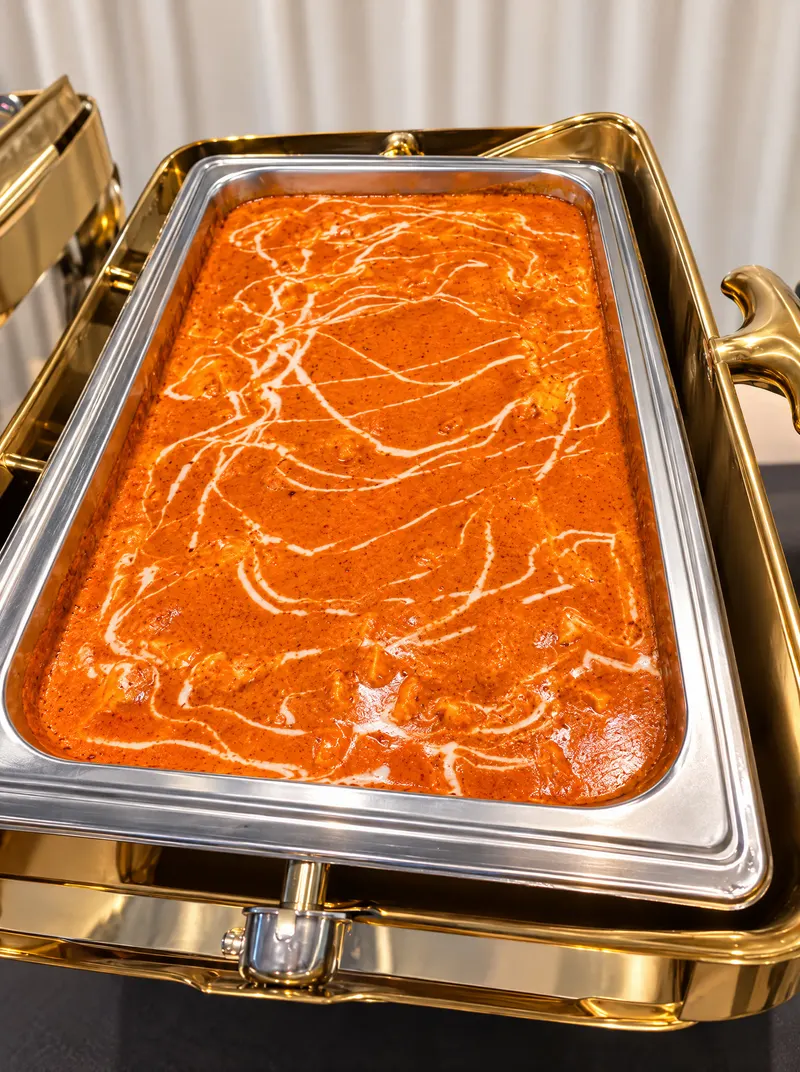
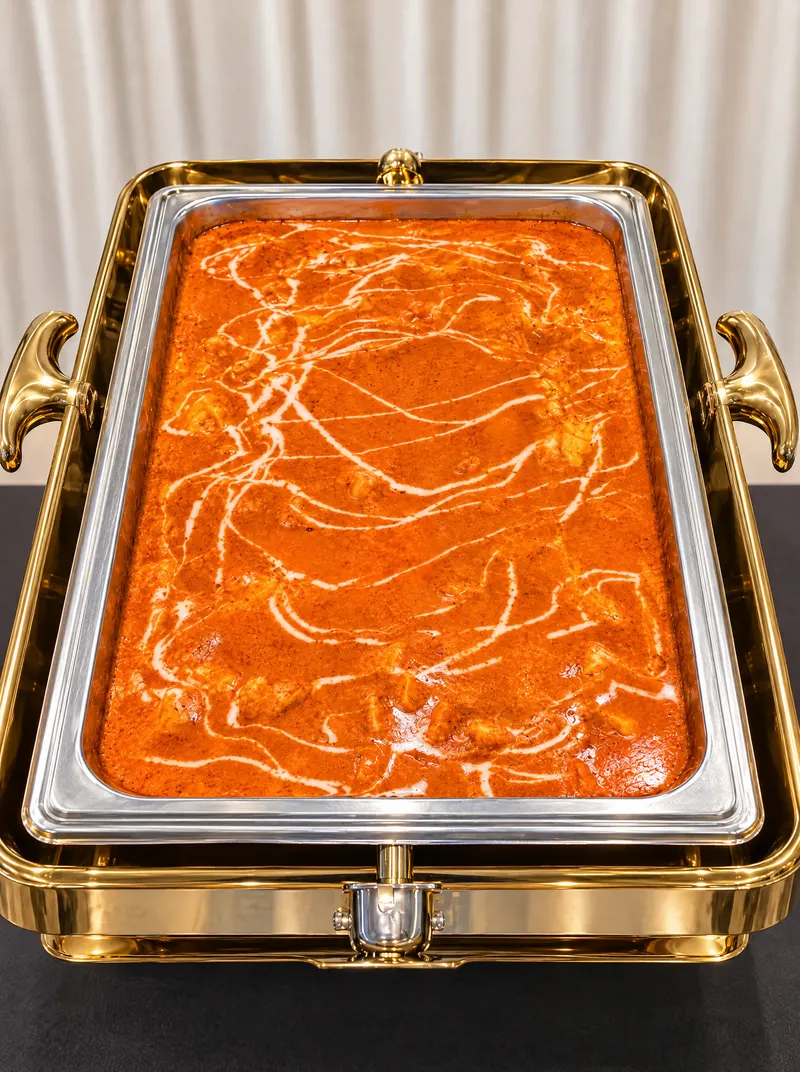
feat: every photo melts into its background, straight butter chicken, phone fixes
- light theme: gallery, buffet and live-station photos get soft edges; home carousel melts on all sides;
  the story hero melts into the marble on phones too
- butter chicken photo straightened (Higgsfield edit, same dish) and re-cropped centred
- phones: buttons at 12.8px min, footer links and icons have 44px tap areas
- scripts/mobile-check.mjs: 360/390/430px on every page (no sideways scroll, images load, text >= 12px,
  tap targets >= 32px, menu button opens and navigates, no page errors)

diff --git a/website/src/index.css b/website/src/index.css
@@ -149,7 +149,7 @@
   .btn-primary {
     display: inline-block;
     font-family: var(--font-body);
-    font-size: 0.74rem;
+    font-size: max(0.74rem, var(--fs-min));
     font-weight: 600;
     letter-spacing: 0.2em;
     text-transform: uppercase;
@@ -171,7 +171,7 @@
   .btn-ghost {
     display: inline-block;
     font-family: var(--font-body);
-    font-size: 0.74rem;
+    font-size: max(0.74rem, var(--fs-min));
     font-weight: 600;
     letter-spacing: 0.2em;
     text-transform: uppercase;
@@ -344,14 +344,16 @@
   mask-image: linear-gradient(to bottom, #000 0%, #000 66%, rgb(0 0 0 / 0.7) 80%, rgb(0 0 0 / 0.3) 91%, transparent 100%);
 }
 
-:root[data-theme="light"] .melt-x {
-  -webkit-mask-image: linear-gradient(to right, transparent 0%, #000 14%, #000 86%, transparent 100%);
-  mask-image: linear-gradient(to right, transparent 0%, #000 14%, #000 86%, transparent 100%);
-}
-
 :root[data-theme="light"] .melt-y {
   -webkit-mask-image: linear-gradient(to bottom, transparent 0%, #000 22%, #000 78%, transparent 100%);
   mask-image: linear-gradient(to bottom, transparent 0%, #000 22%, #000 78%, transparent 100%);
+}
+
+:root[data-theme="light"] .melt-soft {
+  -webkit-mask-image: linear-gradient(to right, transparent 0%, #000 12%, #000 88%, transparent 100%), linear-gradient(to bottom, transparent 0%, #000 10%, #000 90%, transparent 100%);
+  -webkit-mask-composite: source-in;
+  mask-image: linear-gradient(to right, transparent 0%, #000 12%, #000 88%, transparent 100%), linear-gradient(to bottom, transparent 0%, #000 10%, #000 90%, transparent 100%);
+  mask-composite: intersect;
 }
 
 :root[data-theme="light"] .melt-edges {
@@ -425,4 +427,18 @@
 :root[data-theme="light"] .text-sm {
   font-size: 1rem;
   line-height: 1.65;
+}
+
+/* Footer links are easy to tap on phones (44px rows, 44px icons). */
+@media (max-width: 767px) {
+  footer a {
+    display: inline-flex;
+    align-items: center;
+    min-height: 44px;
+  }
+
+  footer a[aria-label] {
+    min-width: 44px;
+    justify-content: center;
+  }
 }

diff --git a/website/src/theme/decor.test.ts b/website/src/theme/decor.test.ts
@@ -42,7 +42,7 @@ describe('theme-scoped decor', () => {
 describe('melting into the marble (light theme)', () => {
   it.each([
     ['melt-bottom', 'components/home/Hero.tsx'],
-    ['melt-x', 'components/home/LaCarte.tsx'],
+    ['melt-soft', 'components/hall/Gallery.tsx'],
     ['melt-edges', 'components/hall/HallIntro.tsx'],
     ['melt-y', 'components/layout/Footer.tsx'],
   ])('.%s is a light-theme alpha mask used by %s', (cls, file) => {
@@ -128,6 +128,29 @@ describe('buffet photos', () => {
       expect(m.width).toBe(m.height)
     }
     expect(read('components/hall/Gallery.tsx')).toContain('aspect-square')
+  })
+})
+
+describe('every photo melts into its background (light theme)', () => {
+  it('has a soft edge mask for photos in grids', () => {
+    expect(css).toMatch(/:root\[data-theme="light"\] \.melt-soft \{[^}]*mask-image: linear-gradient/)
+  })
+
+  it.each(['components/hall/Gallery.tsx', 'components/hall/LiveStations.tsx'])('%s: every grid photo melts', file => {
+    const lines = read(file).split(/\r?\n/).filter(l => l.includes('<CateringImg'))
+    expect(lines.length).toBeGreaterThan(0)
+    for (const l of lines) expect(l).toMatch(/melt-/)
+  })
+
+  it('the home carousel melts on all four sides', () => {
+    expect(read('components/home/LaCarte.tsx')).toContain('className="melt-edges"')
+  })
+
+  it('every page-level photo or video is masked or melted', () => {
+    // feathered with an inline mask (also in the light theme now) or with a melt-* class
+    for (const f of ['components/home/Hero.tsx', 'components/home/PremiereImpression.tsx', 'components/home/EvenementsPrives.tsx', 'pages/NotreHistoire.tsx', 'components/hall/HallIntro.tsx', 'components/hall/Offers.tsx', 'components/layout/Footer.tsx']) {
+      expect(read(f), f).toMatch(/melt-|maskImage/)
+    }
   })
 })
 

diff --git a/website/src/components/hall/LiveStations.tsx b/website/src/components/hall/LiveStations.tsx
@@ -20,7 +20,7 @@ export default function LiveStations() {
         <div className="grid md:grid-cols-3 gap-5">
           {carts.map((p, i) => (
             <motion.figure key={p.id} {...reveal} transition={{ ...reveal.transition, delay: i * 0.08 }}>
-              <CateringImg id={p.id} alt={p.alt[lang]} className="aspect-[3/4]" />
+              <CateringImg id={p.id} alt={p.alt[lang]} className="aspect-[3/4] melt-soft" />
               <figcaption className="text-label mt-3" style={{ fontSize: 'max(0.7rem, var(--fs-min))' }}>{h.live.carts[i]}</figcaption>
             </motion.figure>
           ))}
@@ -28,7 +28,7 @@ export default function LiveStations() {
         <div className="grid grid-cols-2 md:grid-cols-4 gap-3 mt-5">
           {details.map(p => (
             <motion.figure key={p.id} {...reveal}>
-              <CateringImg id={p.id} alt={p.alt[lang]} sizes="(min-width: 768px) 25vw, 50vw" className="aspect-[3/4]" />
+              <CateringImg id={p.id} alt={p.alt[lang]} sizes="(min-width: 768px) 25vw, 50vw" className="aspect-[3/4] melt-soft" />
             </motion.figure>
           ))}
         </div>

diff --git a/website/src/components/hall/Gallery.tsx b/website/src/components/hall/Gallery.tsx
@@ -13,7 +13,7 @@ function Group({ title, photos, cols, aspect }: { title: string; photos: Caterin
         {photos.map((p, i) => (
           <motion.figure key={p.id} {...reveal} transition={{ ...reveal.transition, delay: (i % 3) * 0.06 }}>
             <div className="overflow-hidden">
-              <CateringImg id={p.id} alt={p.alt[lang]} className={`${aspect} transition-transform duration-700 hover:scale-[1.03]`} />
+              <CateringImg id={p.id} alt={p.alt[lang]} className={`${aspect} melt-soft transition-transform duration-700 hover:scale-[1.03]`} />
             </div>
             {p.caption && <figcaption className="text-text-muted text-xs mt-2">{p.caption[lang]}</figcaption>}
           </motion.figure>

diff --git a/website/src/components/home/LaCarte.tsx b/website/src/components/home/LaCarte.tsx
@@ -115,7 +115,7 @@ export default function LaCarte() {
       </div>
 
       {/* Three drift rows */}
-      <div className="melt-x" style={{ display: 'flex', flexDirection: 'column', gap: GAP }}>
+      <div className="melt-edges" style={{ display: 'flex', flexDirection: 'column', gap: GAP }}>
         <PhotoRow photos={row1} height={218} direction="left"  duration={48} />
         <PhotoRow photos={row2} height={198} direction="right" duration={36} />
         <PhotoRow photos={row3} height={210} direction="left"  duration={56} />

diff --git a/website/src/pages/NotreHistoire.tsx b/website/src/pages/NotreHistoire.tsx
@@ -57,7 +57,7 @@ export default function NotreHistoire() {
   return (
     <div ref={sectionRef} style={{ background: 'transparent' }}>
       {/* Hero — split: dark left panel + video right panel */}
-      <div className="relative h-screen overflow-hidden flex">
+      <div className="melt-bottom relative h-screen overflow-hidden flex">
 
         {/* Mobile: video full screen */}
         <video
